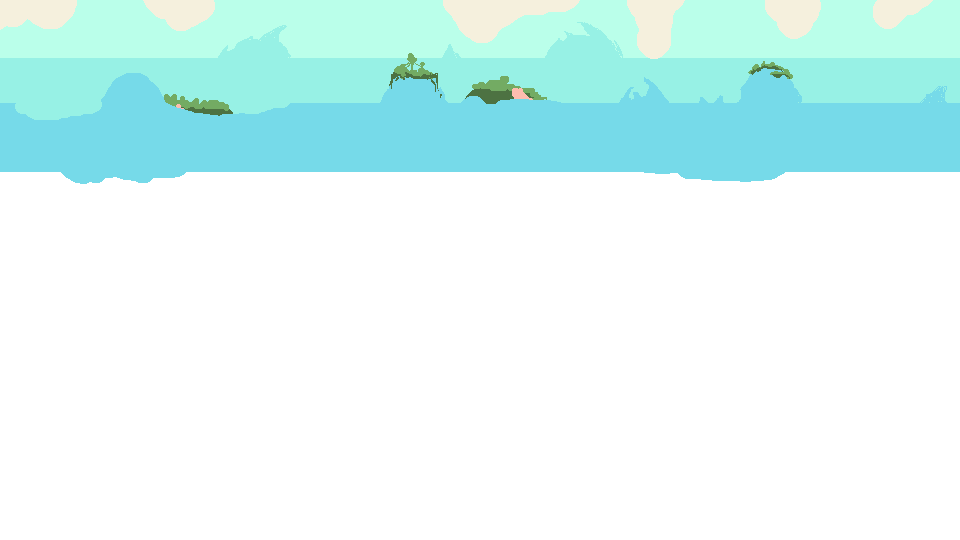
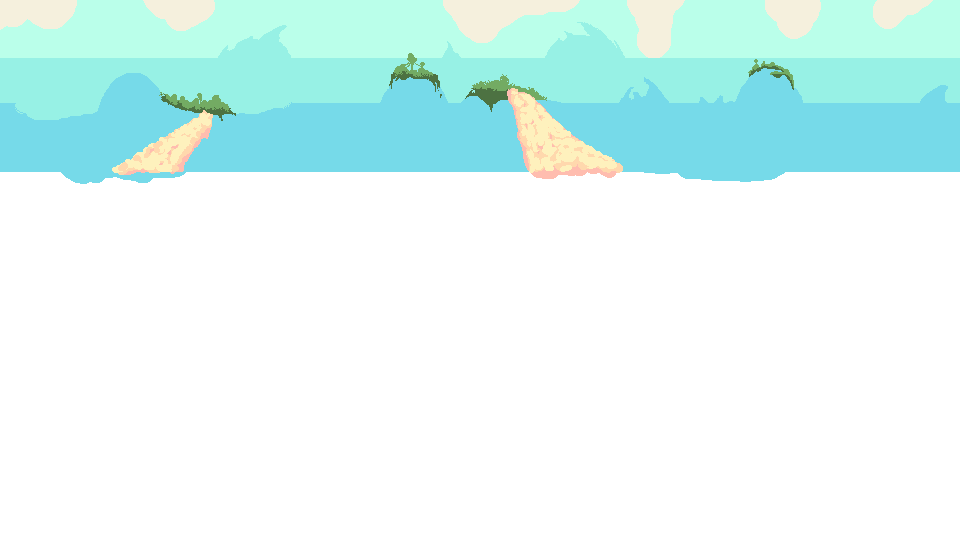
Updated Textures

Changed region(s): [[0.5, 0.1481, 0.6562, 0.3259], [0.0938, 0.1778, 0.25, 0.3259], [0.4062, 0.1185, 0.4375, 0.1481]]

diff --git a/src/GameScreen.cpp b/src/GameScreen.cpp
@@ -14,7 +14,7 @@ void Game::GameScreen::Init() {
     score = 0;
     frames = 0;
     shield = 0;
-    live1 = 840.0f;
+    live1 = 800.0f;
     catTexture = LoadTexture("./assets/graphics/cat.png");
     zucchiniTexture = LoadTexture("./assets/graphics/zucchini.png");
     heartTexture = LoadTexture("./assets/graphics/heart.png");
@@ -44,35 +44,35 @@ void Game::GameScreen::Init() {
 
     //init clouds
     Vector2 cloudYellow1Pos = { 0, 0 };
-    cloudYellow1 = Sprite(cloudYellow, cloudYellow1Pos, true, 0, 0.5, 540);
+    cloudYellow1 = Sprite(cloudYellow, cloudYellow1Pos, true, 0, 0.5, 960, 540);
     Vector2 cloudYellow2Pos = { Utils::ScreenWidth-1, 0 };
-    cloudYellow2 = Sprite(cloudYellow, cloudYellow2Pos, true, 0, 0.5, 540);
+    cloudYellow2 = Sprite(cloudYellow, cloudYellow2Pos, true, 0, 0.5, 960, 540);
 
     Vector2 cloudPink1Pos = { 0, 0 };
-    cloudPink1 = Sprite(cloudPink, cloudPink1Pos, true, 0, 0.2, 540);
+    cloudPink1 = Sprite(cloudPink, cloudPink1Pos, true, 0, 0.2, 960, 540);
     Vector2 cloudPink2Pos = { Utils::ScreenWidth - 1, 0 };
-    cloudPink2 = Sprite(cloudPink, cloudPink2Pos, true, 0, 0.2, 540);
+    cloudPink2 = Sprite(cloudPink, cloudPink2Pos, true, 0, 0.2, 960, 540);
 
     //init snake
     Vector2 snakePos = { -200, -200 };
-    this->snake = Snake(snakeTexture, snakePos, false, 100, 2.0f, 16);
+    this->snake = Snake(snakeTexture, snakePos, false, 100, 2.0f, 34, 40);
 
     //init bullet with null
     Vector2 bulletPos = { -100, -100 };
-    this->bullet = Sprite(bulletTexture, bulletPos , false, 0, 7.0f, 16);
+    this->bullet = Sprite(bulletTexture, bulletPos , false, 0, 7.0f, 16, 16);
 
     //create cat
     Vector2 catPos = { (float)10, (float)(Utils::ScreenHeight / 2) };
-    this->cat = Sprite(catTexture, catPos, true, 0, 3.0f, 32);
+    this->cat = Sprite(catTexture, catPos, true, 0, 3.0f, 33, 40);
 
     //create shield
-    Vector2 shieldPos = {catPos.x + cat.size, catPos.y};
-    this->shieldSprite = Sprite(shieldTexture, catPos, false, 0, 3.0f, 32);
+    Vector2 shieldPos = {catPos.x + cat.width, catPos.y};
+    this->shieldSprite = Sprite(shieldTexture, catPos, false, 0, 3.0f, 33, 40);
     
     //create lives
     for (int i = 0; i < 3; i++) {
-        Vector2 pos = { live1 - (40 * (i + 1)), (float)5 };
-        lives.emplace_back(heartTexture, pos , true, 0, 0, 16);
+        Vector2 pos = { live1 - (40 * (i + 1)), (float)38 };
+        lives.emplace_back(heartTexture, pos , true, 0, 0, 16, 16);
     }
 
     //create enemies
@@ -83,16 +83,16 @@ void Game::GameScreen::Init() {
             Vector2 pos = { (float)(Utils::ScreenWidth - 60 - posX), (float)(posY + 130) };
             int rand = GetRandomValue(1, 100);
             if (rand >= 1 && rand <= 20) {
-                sprites.emplace_back(vacuumCleanerTexture, pos, true, 40, 1.0f, 32);
+                sprites.emplace_back(vacuumCleanerTexture, pos, true, 40, 1.0f, 34, 40);
             }
             else if (rand > 20 && rand <= 50) {
-                sprites.emplace_back(balloonTexture, pos, true, 20, 1.0f, 32);
+                sprites.emplace_back(balloonTexture, pos, true, 20, 1.0f, 34, 40);
             }
             else if (rand > 50 && rand <= 55) {
-                sprites.emplace_back(milkTexture, pos, true, -1, 1.0f, 32);
+                sprites.emplace_back(milkTexture, pos, true, -1, 1.0f, 34, 40);
             }
             else {
-                sprites.emplace_back(zucchiniTexture, pos, true, 10, 1.0f, 32);
+                sprites.emplace_back(zucchiniTexture, pos, true, 10, 1.0f, 34, 40);
             }
             
         }
@@ -193,9 +193,8 @@ void Game::GameScreen::Draw() {
 
     DrawTexture(background, 0, 0, RAYWHITE);
     
-    DrawText("Score", 120, 10, 25, BLACK);
-    if(shield > 0) DrawText("Shield active", 400, 10, 25, BLACK);
-    DrawText("Lives", 650, 10, 25, BLACK);
+    DrawText("Score", 80, 35, 25, BLACK);
+    DrawText("Lives", 600, 35, 25, BLACK);
  
     if ((mouse.x > 80) && (mouse.y > 500) && (mouse.x < 125) && (mouse.y < 520)) {
         DrawText("New", 80, 500, 25, GREEN);
@@ -233,7 +232,7 @@ void Game::GameScreen::Draw() {
     snake.Draw();
 
     //Display Score 
-    DrawText(itoa(score, groesse, 10), 210, 10, 25, LIGHTGRAY);
+    DrawText(itoa(score, groesse, 10), 170, 35, 25, GRAY);
 }
 
 void Game::GameScreen::SetScore(Scores* scores) {
@@ -241,8 +240,8 @@ void Game::GameScreen::SetScore(Scores* scores) {
 }
 
 bool Game::GameScreen::CheckCollision(const Sprite& s1, const Sprite& s2) {
-    return (s1.pos.x < s2.pos.x + s2.size && s1.pos.x + s1.size > s2.pos.x
-        && s1.pos.y < s2.pos.y + s2.size && s1.pos.y + s1.size > s2.pos.y);
+    return (s1.pos.x < s2.pos.x + s2.width && s1.pos.x + s1.width > s2.pos.x
+        && s1.pos.y < s2.pos.y + s2.height && s1.pos.y + s1.height > s2.pos.y);
 }
 
 void Game::GameScreen::ManageCatBullets() {
@@ -291,7 +290,7 @@ void Game::GameScreen::ManageSpritesShootBack() {
         int random = GetRandomValue(0, size - 1);
         Sprite &shot = allowedToShotSprites.at(random);
         Vector2 pos = { shot.pos.x - 16, shot.pos.y + 8 };
-        sprite_bullets.emplace_back(sprite_bulletTexture, pos, true, 0, 5.0f, 16);
+        sprite_bullets.emplace_back(sprite_bulletTexture, pos, true, 0, 5.0f, 16, 16);
         PlaySound(enemyShoot);
     }
 }
@@ -320,7 +319,7 @@ void Game::GameScreen::MoveEnemies() {
             bullet.visible = false;
         }
         //check if bullet leaves screen
-        if(sprite_bullet.pos.x < -sprite_bullet.size)
+        if(sprite_bullet.pos.x < -sprite_bullet.width)
             sprite_bullets.erase(sprite_bullets.begin() + i);
     }
 
@@ -330,7 +329,7 @@ void Game::GameScreen::MoveEnemies() {
     Direction newDir;
     for (int i = 0; !found && i < sprites.size(); i++) {
         Sprite& sp = sprites.at(i);
-        if (dir == UP && sp.pos.y - sp.speed <= 135 || dir == DOWN && sp.pos.y + sp.size + sp.speed >= Utils::ScreenHeight - 45) {
+        if (dir == UP && sp.pos.y - sp.speed <= 135 || dir == DOWN && sp.pos.y + sp.height + sp.speed >= Utils::ScreenHeight - 45) {
             if (oldDir == UP) newDir = DOWN;
             else newDir = UP;
             dir = LEFT;
@@ -381,7 +380,7 @@ void Game::GameScreen::ManageSnake() {
             snake.lives--;
         }
 
-        if (snake.pos.y - snake.size < 0) {
+        if (snake.pos.y - snake.height < 0) {
             snake.visible = false;
         }   
     }

diff --git a/src/MenuScreen.cpp b/src/MenuScreen.cpp
@@ -31,21 +31,25 @@ void Game::MenuScreen::Update() {
 
 void Game::MenuScreen::Draw() {
     ClearBackground(BLACK);
+    DrawTexture(bg, 0, 0, RAYWHITE);
     
-    DrawText("MoodyCat", 235, 10, 100, LIGHTGRAY);
-    DrawText("New Game", 360, 150, 50, LIGHTGRAY);
-    DrawText("Highscore", 355, 250, 50, LIGHTGRAY);
-    DrawText("Quit Game", 360, 350, 50, LIGHTGRAY);
+    DrawText("New Game", 360, 170, 50, LIGHTGRAY);
+    DrawText("Highscore", 355, 270, 50, LIGHTGRAY);
+    DrawText("Quit Game", 360, 370, 50, LIGHTGRAY);
 
     Vector2 mouse = GetMousePosition();
 
     if ((mouse.x > 360) && (mouse.y > 150) && (mouse.x < 600) && (mouse.y < 200)) {
-        DrawText("New Game", 360, 150, 50, GREEN);
+        DrawText("New Game", 360, 170, 50, GREEN);
     }
     else if ((mouse.x > 355) && (mouse.y > 250) && (mouse.x < 605) && (mouse.y < 300)) {
-        DrawText("Highscore", 355, 250, 50, GREEN);
+        DrawText("Highscore", 355, 270, 50, GREEN);
     }
     else if ((mouse.x > 360) && (mouse.y > 350) && (mouse.x < 600) && (mouse.y < 400)) {
-        DrawText("Quit Game", 360, 350, 50, GREEN);
+        DrawText("Quit Game", 360, 370, 50, GREEN);
     }
+}
+
+void Game::MenuScreen::Init() {
+    bg = LoadTexture("./assets/graphics/backgrounds/mainMenuBG.png");
 }

diff --git a/src/Sprite.h b/src/Sprite.h
@@ -10,11 +10,11 @@ struct Sprite {
     Sprite() = default;
     int points;
     float speed;
-    int size;
+    int height, width;
 
     explicit Sprite(Texture2D texture) : texture(texture) {}
 
-    Sprite(Texture2D texture, Vector2 pos, bool visible, int points, float speed, int size) : texture(texture), pos(pos), visible(visible), points(points), speed(speed), size(size) {}
+    Sprite(Texture2D texture, Vector2 pos, bool visible, int points, float speed, int width, int height) : texture(texture), pos(pos), visible(visible), points(points), speed(speed), width(width), height(height) {}
 
     Sprite(Sprite && other)  noexcept : texture(other.texture), pos(other.pos), visible(other.visible) {}
 

diff --git a/src/MenuScreen.h b/src/MenuScreen.h
@@ -1,9 +1,14 @@
 #pragma once
 
 #include "Screen.h"
+#include "raylib.h"
 
 namespace Game {
     class MenuScreen : public Screen {
+    public:
+        Texture2D bg;
+        void Init();
+
         void ProcessInput() override;
 
         void Update() override;

diff --git a/src/main.cpp b/src/main.cpp
@@ -45,6 +45,7 @@ int main() {
     gameScreen.Init();
     gameScreen.SetScore(&scores);
     scores.Init();
+    menuScreen.Init();
     scores.ReadFile();
     scoreScreen.SetScores(&scores);
 
